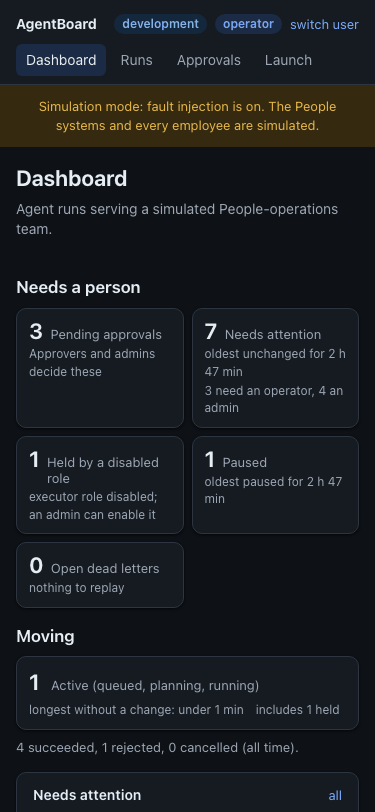
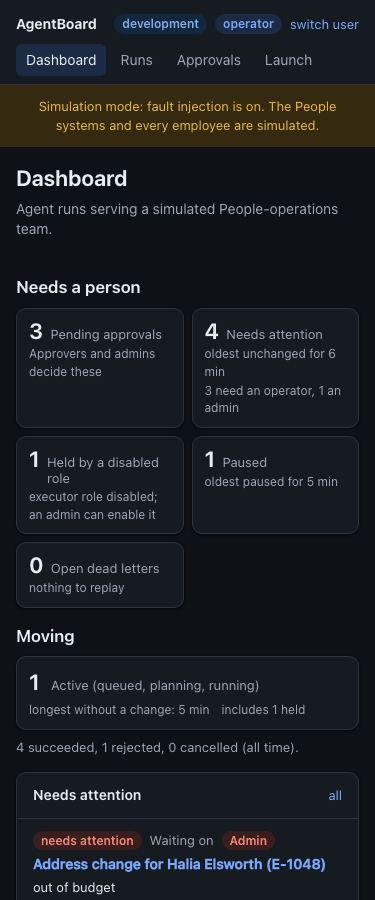
docs: screenshots of every status view at 1280 and 375 px in both themes
USER-WORKFLOWS.md now shows each view of the 2026-10-16 round (Dashboard,
Runs, the run's Timeline tab and the approval queue) at 1280 and 375 px in
the light and the dark theme, plus a run whose write the verifier found
missing, all from one local build with synthetic runs launched through the
API. The three screenshots without a theme in their name are replaced by
light and dark pairs (17 files, 773 KB). It also says where the Events
card now starts, and the README links the section.

diff --git a/docs/USER-WORKFLOWS.md b/docs/USER-WORKFLOWS.md
@@ -154,22 +154,35 @@ A review of the round above drove each persona through the console with Playwrig
 
 A round of visuals that answer a question a persona actually has, each built from data the API already returned or from a small read-only addition with the same permission check. Each item is a commit in this repository with its tests. Screenshots were taken locally (`npm run serve:built` with synthetic runs launched through the API, Chromium through Playwright), not in production.
 
-1. **Plan map (every role: where is this run, which step blocks it, what waits behind that step).** The task list showed one card per task, so the gating edges that make every write wait for the approval were invisible, and the step that blocked a run had to be found by reading every row. The Timeline tab now starts with a map of the plan: one node per step in columns by dependency (a gating edge that skips steps arcs above the row), the blocking step ringed, and one sentence that names it and who acts, in the run notice's words. Every node shows its state as a word and an icon, so nothing depends on colour, and is a button named like "s3 access.revoke_all_roles, write, not started, runs after s2"; activating it moves focus to that step's execute row. It draws from the tasks the page already holds, so the run page makes the same requests as before. Below 721 px it is a vertical stepper whose sentence comes first. The task list became one dense row per task, so the map does not push the Events card down.
+1. **Plan map (every role: where is this run, which step blocks it, what waits behind that step).** The task list showed one card per task, so the gating edges that make every write wait for the approval were invisible, and the step that blocked a run had to be found by reading every row. The Timeline tab now starts with a map of the plan: one node per step in columns by dependency (a gating edge that skips steps arcs above the row), the blocking step ringed, and one sentence that names it and who acts, in the run notice's words. Every node shows its state as a word and an icon, so nothing depends on colour, and is a button named like "s3 access.revoke_all_roles, write, not started, runs after s2"; activating it moves focus to that step's execute row. It draws from the tasks the page already holds, so the run page makes the same requests as before. Below 721 px it is a vertical stepper whose sentence comes first. The task list became one dense row per task, and on wide screens the plan line shares the map's caption row, so with the map and the status table below added the Events card still starts a little higher than before (1357 px from the top at 1280x800 on a local offboarding run waiting for its approval, against 1368 px before this round).
 2. **Time in each status (operator and approver: how long has this run been in its state, and where did its time go).** The answer was spread over about 30 to 50 audit rows. A bar on a real time axis now shows the run's intervals (waiting for an approval and paused in the warning colour, needing attention in the danger colour), with a table of each status's total time, share and number of intervals as its text alternative. The open interval grows from the client clock. The Events card shows key events by default (status changes, plan, approvals, final failures, retries, holds, budget and dead-letter events) and every event on request. The timeline API adds `statusFrom` and `statusTo` to status changes, as enum values only.
 3. **"Needs a person" on the Dashboard (operator and admin: where is work stuck, for how long, who must act; approver: how many approvals can I decide, and when does the next expire).** Eight equal tiles gave "succeeded 87" the same weight as "needs attention 6", and the approver's work was a small button in the header. The first row now holds only work that waits for a person, with ages and the actor in words, each tile a link to where the work is done. Finished runs are one line. Viewers and approvers no longer get a dead-letter count for a panel they cannot open (the API sends them null).
 4. **Who acts next in the run lists (operator: which runs need me and why; admin: which need an admin; approver: which wait on an approval).** The lists printed raw codes such as `budget_exhausted` and `task_failed:injected_permanent`, a run whose tasks were held by a disabled role read only "running", and at 375 px the table was 910 px wide in a 341 px box, so no row showed its status. A "Waiting on" column now names the actor and the reason in words, a held run reads "held: a role is disabled" with the Admin chip, and phones get one card per run with its status and "Waiting on" first.
 5. **What approving unlocks (approver, at the moment of decision: if I approve this, which writes run next on this person's record?).** The card showed only the gated step. Approving a termination also releases `access.revoke_all_roles`, which has no approval of its own. The card now lists what already ran, the step that needs this approval and the writes that run after it, and says what a rejection does.
 6. **Approval queue by urgency (approver: which approval should I decide first so none expires?).** The pending tab listed the newest first, 50 at a time with no paging, so once more than 50 waited the ones closest to expiring were not shown at all. It now lists the soonest expiry first and opens with a summary line, and each pending card has a time-left meter that turns to the warning colour under 24 hours and the danger colour under 6, with the time left always in words.
 
-![Dashboard at 1280 px as an operator: the "Needs a person" tiles, the Moving tile and the Needs attention list with its Waiting on column](screenshots/dashboard-1280.png)
+Screenshots, all from the same local build and synthetic runs, signed in as the operator (Dashboard, Runs, run detail) or the approver (Approvals). The app follows the system's light or dark setting (`prefers-color-scheme`), so each view is shown in both themes.
 
-![Run detail at 1280 px for an offboarding waiting for its approval: the plan map with s2 ringed, the gating arcs to s4 and s5, the blocking sentence, and Time in each status](screenshots/run-timeline-1280.png)
+![Dashboard at 1280 px as an operator: the "Needs a person" tiles, the Moving tile and the Needs attention list with its Waiting on column](screenshots/dashboard-1280-light.png)
+
+![Run detail at 1280 px for an offboarding waiting for its approval: the plan map with s2 ringed, the gating arcs to s4 and s5, the blocking sentence, and Time in each status](screenshots/run-timeline-1280-light.png)
+
+![Run detail at 1280 px for an address change whose write the verifier found missing: the plan map rings s2 with "verification failed" and says an operator or an admin can retry s2 execute; Time in each status shows most of the run's life as needs attention](screenshots/run-needs-attention-1280-light.png)
 
 ![The approval queue at 1280 px in the dark theme: the summary line, time-left meters, and What approving unlocks open on a termination](screenshots/approvals-1280-dark.png)
 
-At 375 px: the Dashboard in the dark theme (left), the Timeline tab's stepper and status table for a viewer in the dark theme (middle), and the run list as cards (right).
+At 375 px: the Dashboard in the dark theme (left), the Timeline tab's stepper and status table in the dark theme (middle), and the run list as cards (right).
 
-<img src="screenshots/dashboard-375-dark.png" alt="Dashboard at 375 px in the dark theme: two compact tiles per row" width="250"> <img src="screenshots/run-timeline-375-dark.png" alt="Timeline tab at 375 px in the dark theme: the blocking sentence first, the vertical stepper, then Time in each status" width="250"> <img src="screenshots/runs-375.png" alt="Runs at 375 px: one card per run with its status and Waiting on chip first" width="250">
+<img src="screenshots/dashboard-375-dark.png" alt="Dashboard at 375 px in the dark theme: two compact tiles per row" width="250"> <img src="screenshots/run-timeline-375-dark.png" alt="Timeline tab at 375 px in the dark theme: the blocking sentence first, the vertical stepper, then Time in each status" width="250"> <img src="screenshots/runs-375-light.png" alt="Runs at 375 px: one card per run with its status and Waiting on chip first" width="250">
+
+Every view at both widths and in both themes:
+
+| View | 1280 px light | 1280 px dark | 375 px light | 375 px dark |
+|---|---|---|---|---|
+| Dashboard ("Needs a person", Moving, Waiting on) | [light](screenshots/dashboard-1280-light.png) | [dark](screenshots/dashboard-1280-dark.png) | [light](screenshots/dashboard-375-light.png) | [dark](screenshots/dashboard-375-dark.png) |
+| Runs (Waiting on column, cards on phones) | [light](screenshots/runs-1280-light.png) | [dark](screenshots/runs-1280-dark.png) | [light](screenshots/runs-375-light.png) | [dark](screenshots/runs-375-dark.png) |
+| Run detail, Timeline tab (plan map, time in each status) | [light](screenshots/run-timeline-1280-light.png) | [dark](screenshots/run-timeline-1280-dark.png) | [light](screenshots/run-timeline-375-light.png) | [dark](screenshots/run-timeline-375-dark.png) |
+| Approval queue (summary line, time-left meters, What approving unlocks) | [light](screenshots/approvals-1280-light.png) | [dark](screenshots/approvals-1280-dark.png) | [light](screenshots/approvals-375-light.png) | [dark](screenshots/approvals-375-dark.png) |
 
 Server changes in this round are read paths only, each behind `runs:read` like before: four fields added to `/api/metrics/summary` (and `dlqOpen` null without `dlq:read`), `heldTasks` on run summaries, the pending approvals' order and cursor, and two enum fields on timeline status changes. Authorization, approvals, idempotency, budgets and redaction are unchanged.
 

diff --git a/README.md b/README.md
@@ -8,9 +8,9 @@ AgentBoard is an operations console for launching, monitoring and controlling ag
 
 **Live demo.** [`docs/DEMO.md`](docs/DEMO.md) is the interview walkthrough of the production deployment: an operator's request, an approval and a rejection in a second window, talking points tied to the results files, and a local fallback.
 
-**User workflows.** [`docs/USER-WORKFLOWS.md`](docs/USER-WORKFLOWS.md) walks through each persona's workflows in the console and lists what the 2026-10-15 workflow round changed and why, what a review of that round fixed, and the 2026-10-16 status views with screenshots: a plan map that shows which step blocks a run and what waits behind it, time in each status, a dashboard of the work that waits for a person, who acts next in the run lists, and what approving an approval unlocks.
+**User workflows.** [`docs/USER-WORKFLOWS.md`](docs/USER-WORKFLOWS.md) walks through each persona's workflows in the console and lists what the 2026-10-15 workflow round changed and why, what a review of that round fixed, and the [2026-10-16 status views](docs/USER-WORKFLOWS.md#changed-on-2026-10-16): a plan map that shows which step blocks a run and what waits behind it, time in each status, a dashboard of the work that waits for a person, who acts next in the run lists, what approving an approval unlocks, and the approval queue in order of expiry, with screenshots of each view at 1280 and 375 px in the light and dark themes.
 
-![Run detail for an offboarding waiting for its approval: the plan map rings s2, arcs its gating edges to s4 and s5, and says who acts; Time in each status follows (local build, synthetic data)](docs/screenshots/run-timeline-1280.png)
+![Run detail for an offboarding waiting for its approval: the plan map rings s2, arcs its gating edges to s4 and s5, and says who acts; Time in each status follows (local build, synthetic data)](docs/screenshots/run-timeline-1280-light.png)
 
 The design is in [`SPEC.md`](SPEC.md), the domain terms in [`CONTEXT.md`](CONTEXT.md), the main decisions in [`docs/adr/`](docs/adr) (coordinator leases and queues, the integration ledger and call-bound tokens, policy-owned approvals with gating edges, derived run status with recovery cascades, measured results with a staleness check), and the milestone demo scripts in [`demos/`](demos).
 
